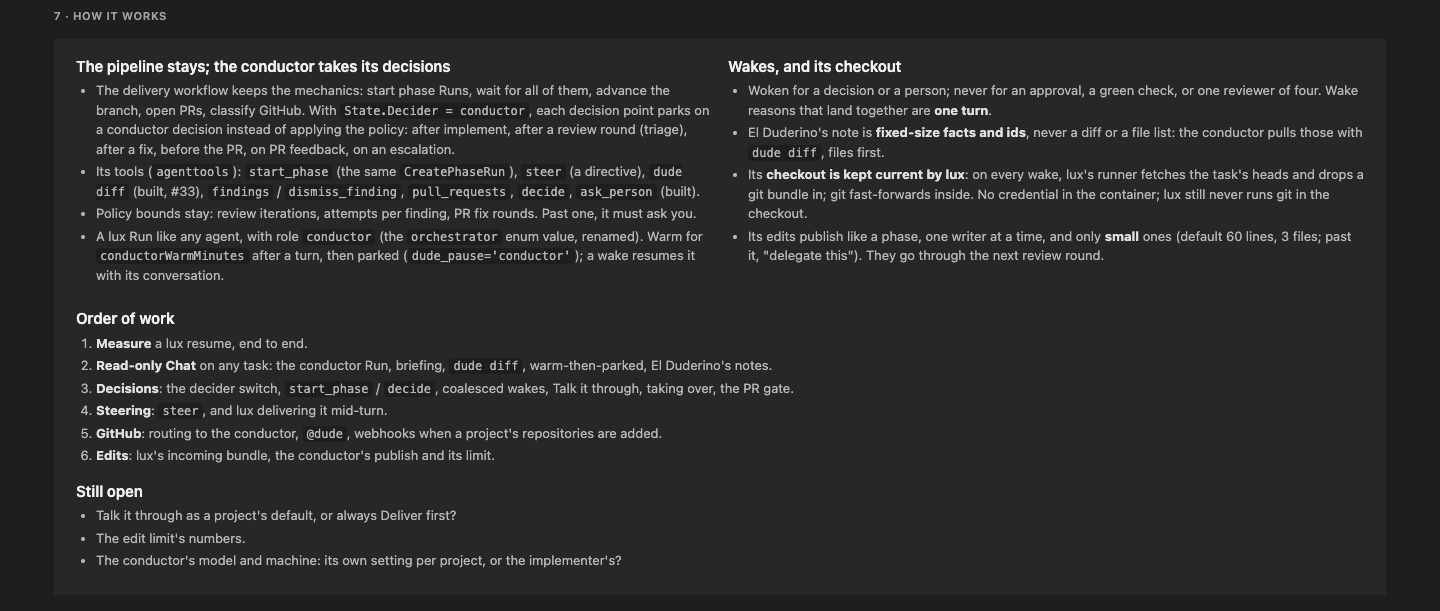
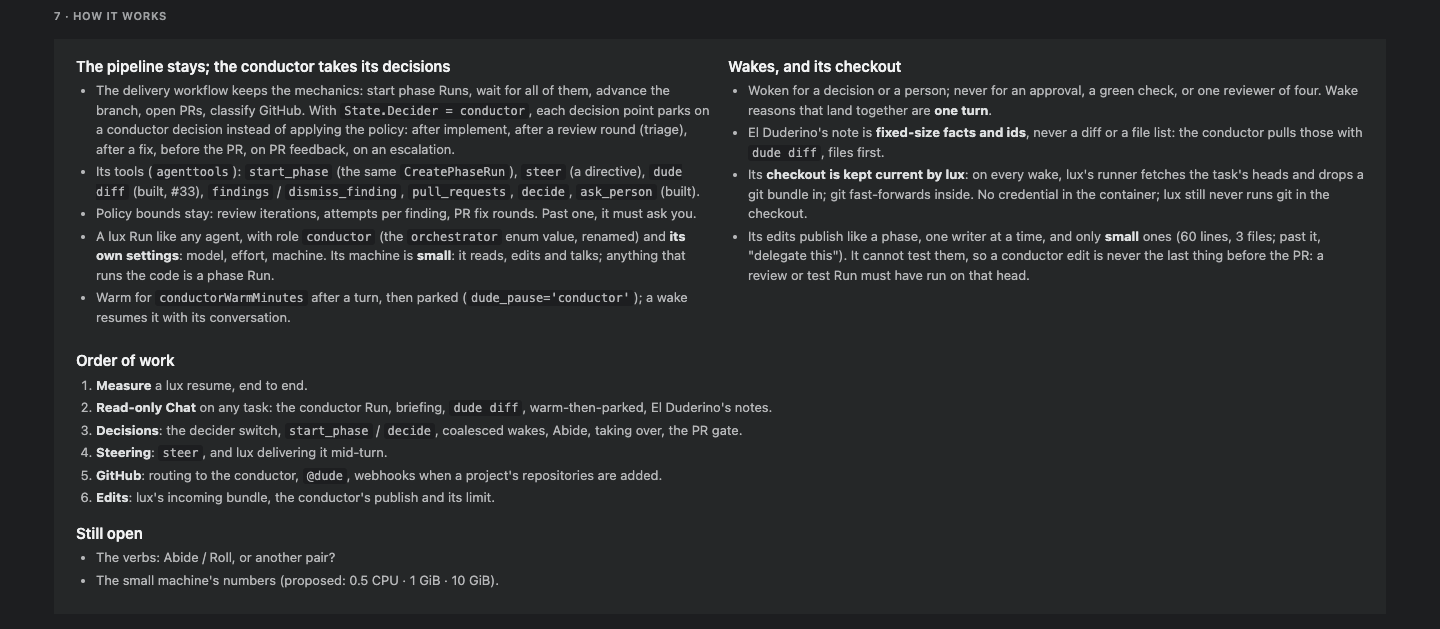
Design: the conductor — Abide/Roll, its own small machine

Changed region(s): [[0.0312, 0.0933, 0.9375, 0.5286], [0.0312, 0.5597, 0.5625, 0.9329]]

diff --git a/docs/design/mockups/conductor/index.html b/docs/design/mockups/conductor/index.html
@@ -912,7 +912,7 @@ kbd{font-family:var(--ds-font-mono);font-size:11px;padding:1px 4px;border-radius
 <!-- ============ 1 START ============ -->
 <h2 class="sec" id="s1">1 · Starting a task</h2>
 <h3 class="q">"How would I start a task with this agent, instead of automatic delivering?"</h3>
-<p class="lede">A task that hasn't started shows two ways to start where the "Not started" empty state is today. <b>Deliver</b> is today's automatic pipeline, unchanged. <b>Talk it through</b> starts the conductor in the Chat tab; El Duderino gives it the goal and criteria as its first prompt. The header has one primary button, following the project's start mode (<code>projects.start_mode</code>; Deliver stays the default until Talk has proven itself). The other sits next to it as a secondary button. Either way you can always type in Chat: the first message on a Delivered task starts its conductor and hands it the task's decisions (section 5).</p>
+<p class="lede">A task that hasn't started shows two ways to start where the "Not started" empty state is today, <b>side by side and equal</b>: you pick each time, and no project setting picks for you. <b>Abide</b> starts the conductor in the Chat tab, to talk it through with you; El Duderino gives it the goal and criteria as its first prompt. <b>Roll</b> is today's automatic pipeline, unchanged: let it go and it runs to the PR on its own. Either way you can always type in Chat: the first message on a rolling task starts its conductor and hands it the task's decisions (section 5).</p>
 
 <div class="app tall">
   <nav class="sb">
@@ -928,8 +928,8 @@ kbd{font-family:var(--ds-font-mono);font-size:11px;padding:1px 4px;border-radius
   </nav>
   <div class="main">
     <div class="crumbs">web-console <svg class="ico ico12"><use href="#i-chev"/></svg> Checkout v2 <svg class="ico ico12"><use href="#i-chev"/></svg> WC-219<span class="sp"></span>
-      <button class="btn" data-testid="talk"><svg class="ico"><use href="#i-msg"/></svg>Talk it through</button>
-      <button class="btn primary"><svg class="ico"><use href="#i-zap"/></svg>Deliver</button>
+      <button class="btn" data-testid="abide"><svg class="ico"><use href="#i-msg"/></svg>Abide</button>
+      <button class="btn" data-testid="roll"><svg class="ico"><use href="#i-zap"/></svg>Roll</button>
       <button class="btn quiet"><svg class="ico"><use href="#i-edit"/></svg>Edit</button></div>
     <div class="thead"><div class="tm"><h1 class="ttitle">Invoice option for annual plans</h1>
       <div class="tmeta"><span class="st mute"><svg class="ico ico12"><use href="#i-ring"/></svg>Not started</span><span class="mono">WC-219</span><span>created 3m ago</span></div></div>
@@ -941,17 +941,17 @@ kbd{font-family:var(--ds-font-mono);font-size:11px;padding:1px 4px;border-radius
           <ul><li>Invoice is offered on the plan step only when the interval is yearly</li><li>The order API accepts <code>payment_method=invoice</code> and rejects it for monthly</li><li>Existing card flow unchanged</li></ul></div></div>
         <div class="block"><div class="lbl">How to start</div>
           <div class="modes">
-            <div class="mode pick">
-              <h4><span class="face s32 f-orch"><svg class="ico"><use href="#i-orch"/></svg></span>Talk it through</h4>
-              <p>The conductor reads the task and the code, asks what it needs, proposes a plan, and runs the agents with you watching.</p>
+            <div class="mode">
+              <h4><span class="face s32 f-orch"><svg class="ico"><use href="#i-orch"/></svg></span>Abide</h4>
+              <p>Talk it through. The conductor reads the task and the code, asks what it needs, proposes a plan, and runs the agents with you watching.</p>
               <ul><li>You can interrupt any time, and it steers the agents for you, or makes a small change itself</li><li>It decides the review rounds and the simplifier with you</li><li>It waits for your go before opening the PR</li></ul>
-              <div class="foot"><span class="sel">claude-opus-5-5 <svg class="ico ico12"><use href="#i-down"/></svg></span><span class="sp" style="flex:1"></span><button class="btn primary">Start talking</button></div>
+              <div class="foot"><span>Conductor · claude-opus-5-5 · Small</span><span class="sp" style="flex:1"></span><button class="btn">Abide</button></div>
             </div>
             <div class="mode">
-              <h4><span class="face s32" style="background:var(--ds-color-overlay);color:var(--ds-color-text-secondary);border-radius:var(--ds-radius-control)"><svg class="ico"><use href="#i-zap"/></svg></span>Deliver</h4>
-              <p>Today's automatic pipeline: implementer, reviewers, fixer, simplifier, then the PR. Nobody needs to be here.</p>
+              <h4><span class="face s32" style="background:var(--ds-color-overlay);color:var(--ds-color-text-secondary);border-radius:var(--ds-radius-control)"><svg class="ico"><use href="#i-zap"/></svg></span>Roll</h4>
+              <p>Deliver straight through: implementer, reviewers, fixer, simplifier, then the PR. Nobody needs to be here.</p>
               <ul><li>Stops only on a question or an escalation</li><li>You can still open Chat later and take over</li></ul>
-              <div class="foot"><span>Project default</span><span class="sp" style="flex:1"></span><button class="btn">Deliver</button></div>
+              <div class="foot"><span>The project's pipeline</span><span class="sp" style="flex:1"></span><button class="btn">Roll</button></div>
             </div>
           </div></div>
       </div>
@@ -1063,7 +1063,7 @@ kbd{font-family:var(--ds-font-mono);font-size:11px;padding:1px 4px;border-radius
         <div class="tool"><svg class="ico ok"><use href="#i-check"/></svg><b>publish</b><code>1 file · +1 −1 · within the 60-line limit</code><span class="d">task branch → <code>b7e20d4</code></span></div>
       </div>
       <div class="turn"><span class="face s40 f-orch"><svg class="ico"><use href="#i-orch"/></svg></span><div><div class="h"><span class="n">Conductor</span><span class="tm">15:50</span></div>
-        <div class="tx">Fixed it myself, one line, nobody else is writing right now. It goes through the next review round with everything else.</div></div></div>
+        <div class="tx">Fixed it myself, one line, nobody else is writing right now. I can't run the tests on my machine, so it goes through the next review round with everything else, and that runs them.</div></div></div>
     </div>
     <div class="composer" style="position:relative">
       <div class="field focus"><span>do 3 here actually, it's small. and </span><span class="mention"><span class="face s16 f-rev"><svg class="ico"><use href="#i-eye"/></svg></span>reviewer-database</span><span>check the migration locks orders for how long</span></div>
@@ -1102,7 +1102,7 @@ kbd{font-family:var(--ds-font-mono);font-size:11px;padding:1px 4px;border-radius
     <div class="turn"><span class="face s40 f-orch"><svg class="ico"><use href="#i-orch"/></svg></span><div><div class="h"><span class="n">Conductor <small>for Márcio</small></span><span class="tm">16:31</span></div>
       <div class="tx"><p>Ready for a PR. What ran on <code>c07f1b3</code>:</p>
       <ul><li>Review round 2 clean in all four categories. Round-1 findings 1, 2 and 4 fixed, each with a test that fails without the fix. Finding 3 done here, as you asked.</li>
-      <li>Simplifier merged the two plan-interval helpers (−31 lines); I re-ran the reviewers' tests after it.</li>
+      <li>Simplifier merged the two plan-interval helpers (−31 lines); its Run re-ran the suite after it.</li>
       <li>Full suite: 1,184 pass. Screenshots of the plan step and upgrade screen are in Files.</li>
       <li><b>Not verified:</b> the invoice PDF itself. The billing service isn't in this project's repositories.</li></ul></div></div></div>
     <div class="turn q same" style="margin-top:6px"><span class="face s40 f-orch"><svg class="ico"><use href="#i-orch"/></svg></span><div>
@@ -1139,7 +1139,7 @@ kbd{font-family:var(--ds-font-mono);font-size:11px;padding:1px 4px;border-radius
         <div class="tx">ok make the cap configurable, default 8</div></div></div>
       <div class="turn q"><span class="face s40 f-orch"><svg class="ico"><use href="#i-orch"/></svg></span><div><div class="h"><span class="n">Conductor</span><span class="tm">10:05</span></div>
         <div class="tx">#88 is merged, so this would be a new PR. Should I make it a follow-up task (SDK-32, linked here)?</div>
-        <div class="chips"><button class="chip pick">Yes, new task, talk it through</button><button class="chip">New task, just Deliver</button><button class="chip">No</button></div></div></div>
+        <div class="chips"><button class="chip pick">New task, abide</button><button class="chip">New task, roll</button><button class="chip">No</button></div></div></div>
     </div>
     <div class="composer"><div class="field"><span class="ph">Ask about this task, or ask for a change…</span></div>
       <div class="acts"><span>To <b>Conductor</b> · read-only until you ask for a change</span><span class="sp"></span><kbd>Enter</kbd> send<button class="btn primary">Send</button></div></div></div>
@@ -1204,27 +1204,27 @@ kbd{font-family:var(--ds-font-mono);font-size:11px;padding:1px 4px;border-radius
       <ul><li>The delivery workflow keeps the mechanics: start phase Runs, wait for all of them, advance the branch, open PRs, classify GitHub. With <code>State.Decider = conductor</code>, each decision point parks on a conductor decision instead of applying the policy: after implement, after a review round (triage), after a fix, before the PR, on PR feedback, on an escalation.</li>
       <li>Its tools (<code>agenttools</code>): <code>start_phase</code> (the same <code>CreatePhaseRun</code>), <code>steer</code> (a directive), <code>dude diff</code> (built, #33), <code>findings</code> / <code>dismiss_finding</code>, <code>pull_requests</code>, <code>decide</code>, <code>ask_person</code> (built).</li>
       <li>Policy bounds stay: review iterations, attempts per finding, PR fix rounds. Past one, it must ask you.</li>
-      <li>A lux Run like any agent, with role <code>conductor</code> (the <code>orchestrator</code> enum value, renamed). Warm for <code>conductorWarmMinutes</code> after a turn, then parked (<code>dude_pause='conductor'</code>); a wake resumes it with its conversation.</li></ul>
+      <li>A lux Run like any agent, with role <code>conductor</code> (the <code>orchestrator</code> enum value, renamed) and <b>its own settings</b>: model, effort, machine. Its machine is <b>small</b>: it reads, edits and talks; anything that runs the code is a phase Run.</li>
+      <li>Warm for <code>conductorWarmMinutes</code> after a turn, then parked (<code>dude_pause='conductor'</code>); a wake resumes it with its conversation.</li></ul>
     </div>
     <div>
       <h4>Wakes, and its checkout</h4>
       <ul><li>Woken for a decision or a person; never for an approval, a green check, or one reviewer of four. Wake reasons that land together are <b>one turn</b>.</li>
       <li>El Duderino's note is <b>fixed-size facts and ids</b>, never a diff or a file list: the conductor pulls those with <code>dude diff</code>, files first.</li>
       <li>Its <b>checkout is kept current by lux</b>: on every wake, lux's runner fetches the task's heads and drops a git bundle in; git fast-forwards inside. No credential in the container; lux still never runs git in the checkout.</li>
-      <li>Its edits publish like a phase, one writer at a time, and only <b>small</b> ones (default 60 lines, 3 files; past it, "delegate this"). They go through the next review round.</li></ul>
+      <li>Its edits publish like a phase, one writer at a time, and only <b>small</b> ones (60 lines, 3 files; past it, "delegate this"). It cannot test them, so a conductor edit is never the last thing before the PR: a review or test Run must have run on that head.</li></ul>
     </div>
   </div>
   <h4>Order of work</h4>
   <ol><li><b>Measure</b> a lux resume, end to end.</li>
   <li><b>Read-only Chat</b> on any task: the conductor Run, briefing, <code>dude diff</code>, warm-then-parked, El Duderino's notes.</li>
-  <li><b>Decisions</b>: the decider switch, <code>start_phase</code> / <code>decide</code>, coalesced wakes, Talk it through, taking over, the PR gate.</li>
+  <li><b>Decisions</b>: the decider switch, <code>start_phase</code> / <code>decide</code>, coalesced wakes, Abide, taking over, the PR gate.</li>
   <li><b>Steering</b>: <code>steer</code>, and lux delivering it mid-turn.</li>
   <li><b>GitHub</b>: routing to the conductor, <code>@dude</code>, webhooks when a project's repositories are added.</li>
   <li><b>Edits</b>: lux's incoming bundle, the conductor's publish and its limit.</li></ol>
   <h4>Still open</h4>
-  <ul><li>Talk it through as a project's default, or always Deliver first?</li>
-  <li>The edit limit's numbers.</li>
-  <li>The conductor's model and machine: its own setting per project, or the implementer's?</li></ul>
+  <ul><li>The verbs: Abide / Roll, or another pair?</li>
+  <li>The small machine's numbers (proposed: 0.5 CPU · 1 GiB · 10 GiB).</li></ul>
 </div>
 </div>
 

diff --git a/docs/design/conductor.md b/docs/design/conductor.md
@@ -41,20 +41,31 @@ Decided (2026-09-30 to 2026-10-02, Márcio):
   size; the conductor reads what it needs with `dude diff`.
 - **The conductor may edit code, for small things.** It has its own
   checkout, kept current by lux, and publishes like a phase. "Small" is
-  enforced when it publishes; past it, it delegates.
+  60 changed lines and 3 files, enforced when it publishes; past it, it
+  delegates.
+- **Starting is a choice, every time.** Two equal buttons, no project
+  default: talk it through, or deliver straight through. Named after the
+  film: **Abide** and **Roll**.
+- **The conductor has its own settings and a small machine.** Its own
+  model, effort and machine size, like any role. Its machine is small: it
+  reads, edits and talks, and never runs the code. Anything that builds or
+  tests is a phase Run.
 
 ## Starting a task
 
-Where a task's "Not started" offers Deliver today, there are two:
+Where a task's "Not started" offers Deliver today, there are two, side by
+side and equal. The person picks each time; no setting picks for them.
 
-- **Talk it through** starts the conductor in Chat. It reads the task and
-  the code, then asks what it needs to (a question card, as `ask_person`
-  makes today) or proposes a plan. The task waits on the person; the
-  conductor is parked while it waits.
-- **Deliver** is today's pipeline, unchanged.
+- **Abide** (talk it through) starts the conductor in Chat. It reads the
+  task and the code, then asks what it needs to (a question card, as
+  `ask_person` makes today) or proposes a plan. The task waits on the
+  person; the conductor is parked while it waits.
+- **Roll** (deliver straight through) is today's pipeline, unchanged. In
+  bowling, the roll is the delivery: let it go and it runs to the end on
+  its own.
 
-A project chooses which is the primary button (`projects.start_mode`:
-`deliver` | `conduct`, default `deliver`).
+The verbs are UI copy only. Internally the workflow, its events and its
+API stay "delivery" and the decider `policy` | `conductor`.
 
 ## Taking over a delivered task
 
@@ -137,10 +148,23 @@ wrote. Nothing else wakes it.
 - **One safety net.** A conductor asleep for long with a Run of its own in
   flight is woken once, to say what it is waiting for. No other polling.
 
-## Its machine
+## Its settings and machine
 
-The conductor is a lux Run, like any agent, on the project's conductor
-machine size. Between turns it is **warm, then parked**:
+- **Its own role settings.** `conductor` is a role in
+  `default_agent_models` and `agent_models` like the others — model,
+  effort, machine size — with its own settings page. It does not follow
+  the implementer.
+- **A small machine.** It reads code, runs `dude diff`, `rg` and `git`,
+  edits and talks; it never builds, installs or runs tests. Every
+  organisation gets a small size for it, **Small: 0.5 CPU · 1 GiB ·
+  10 GiB**, the conductor's default (a migration for existing
+  organisations, the seeding trigger for new ones). Disk is the checkout
+  and nothing else.
+- **What it cannot run, a phase Run does.** "Are the tests green?" is
+  answered by the last implementer, fixer, simplifier or test Run on that
+  head, which it reads. It does not claim what it did not see a Run do.
+
+Between turns it is **warm, then parked**:
 
 - After a turn, it stays running for a grace period, so a person answering
   at their desk gets a live reply (`conductorWarmMinutes`, default 10 —
@@ -169,9 +193,12 @@ machine size. Between turns it is **warm, then parked**:
   its checkout was not current, which says so instead of losing work.
 - **One writer at a time.** It cannot publish while an implementer or fixer
   is running on the task; it waits, or steers that agent instead.
-- **Small, enforced.** A publish past the project's limit (default 60
-  changed lines, 3 files) is refused with "delegate this". Its commits go
-  through the next review round like any other.
+- **Small, enforced.** A publish past the project's limit (60 changed
+  lines, 3 files) is refused with "delegate this".
+- **Never untested at the PR.** It cannot run tests, so its commits go
+  through the next review round like any other, and the PR gate refuses a
+  head whose last commit is the conductor's until a review or test Run
+  has run on it.
 
 ## What it replaces from threadctl and arny
 
@@ -214,12 +241,13 @@ mostly already true of dude:
 ## Order of work
 
 1. **Measure** a lux resume, end to end.
-2. **Read-only Chat** on any task: the conductor role and Run, briefing
+2. **Read-only Chat** on any task: the conductor role, its settings and
+   the Small size, its Run, briefing
    from the task, `dude diff`, `findings`, `pull_requests`, `ask_person`;
    warm-then-parked; El Duderino's notes. No decisions yet.
 3. **Decisions:** `State.Decider`, the decision points parking on
    `SignalConductorDecision`, `start_phase`, `decide`,
-   `dismiss_finding`, coalesced wakes; Talk it through; take-over; the PR
+   `dismiss_finding`, coalesced wakes; Abide and Roll; take-over; the PR
    gate.
 4. **Steering:** `steer`, and lux delivering a steer mid-turn.
 5. **GitHub:** routing to the conductor, @dude, webhooks on project add.
@@ -227,6 +255,5 @@ mostly already true of dude:
 
 ## Open
 
-- Talk it through as the default for a project, or always Deliver first?
-- The edit limit's numbers.
-- A conductor's model and machine size per project, or the implementer's?
+- The verbs: Abide / Roll, or another pair?
+- The Small size's numbers: enough disk for the largest checkout?
